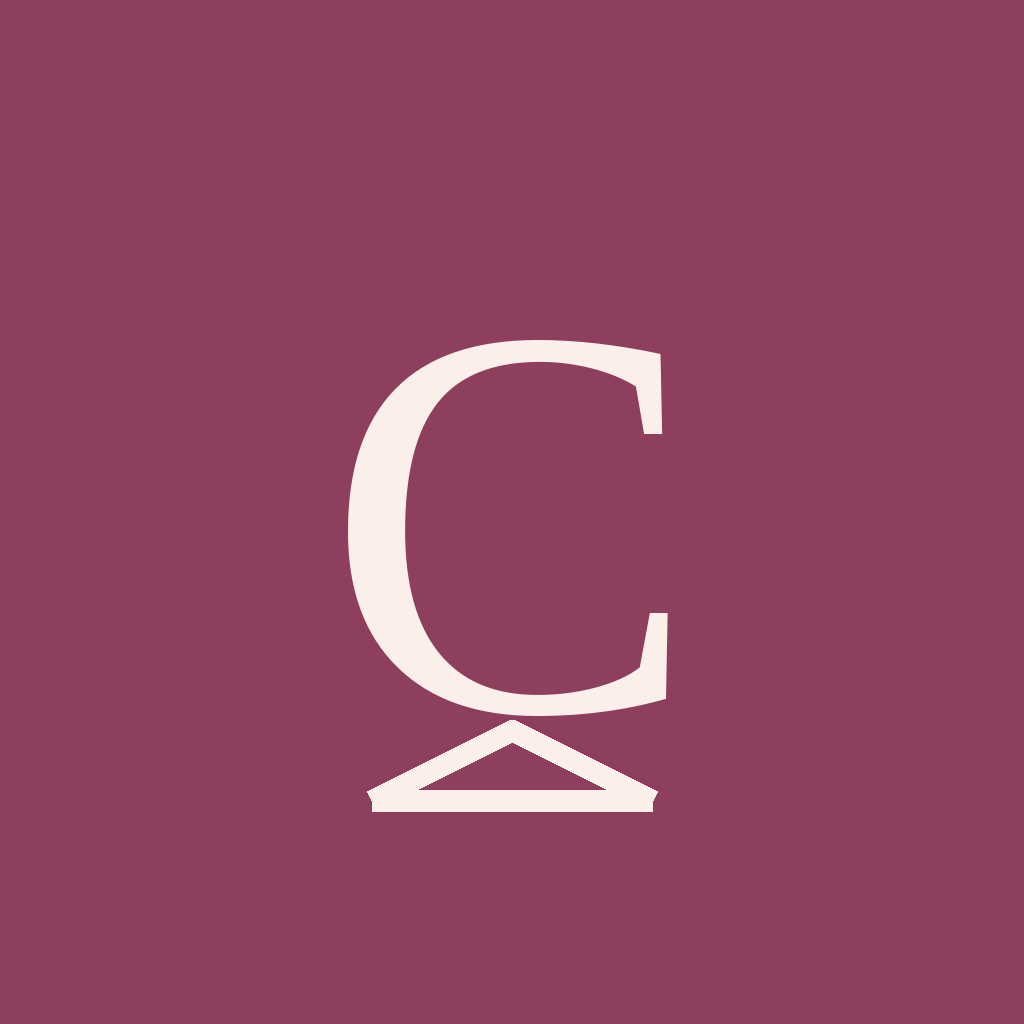
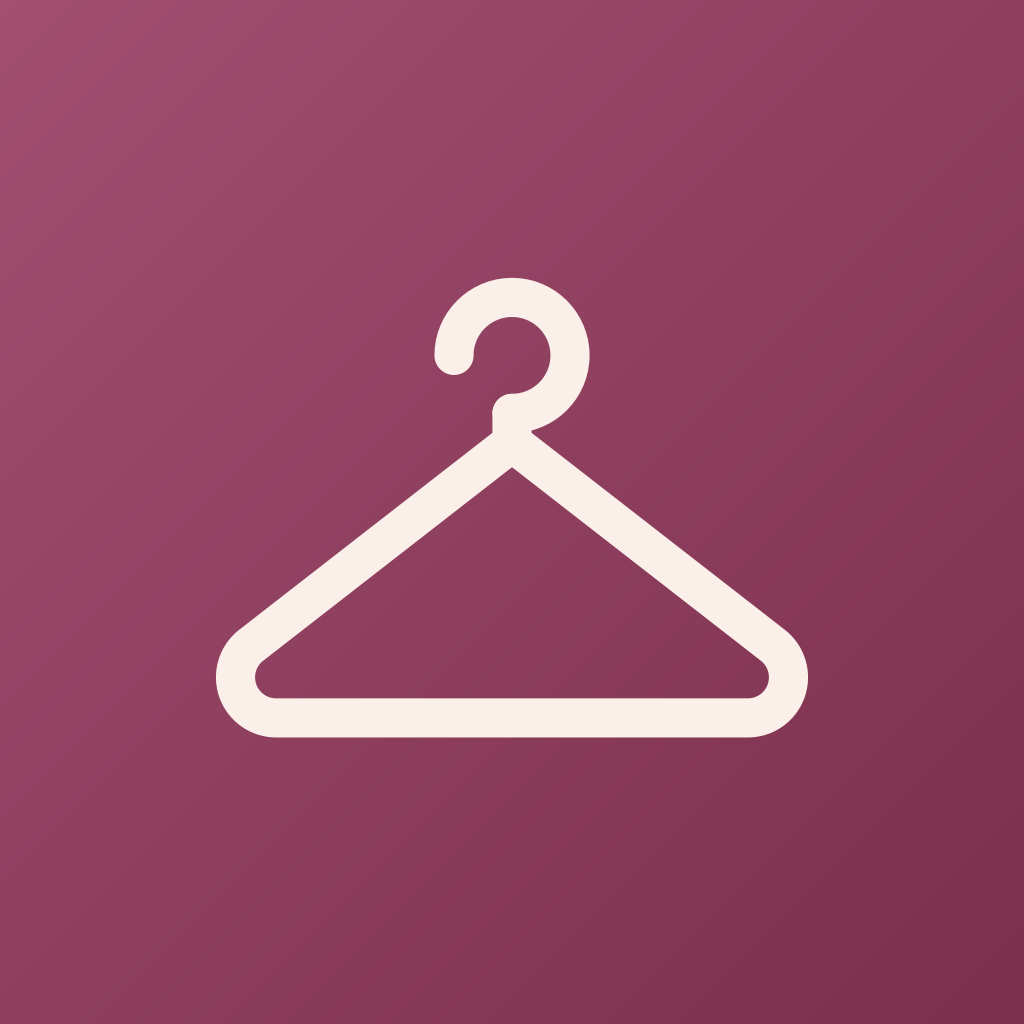
Icono nuevo y tarjeta de hoy

Changed region(s): [[0.1875, 0.25, 0.8125, 0.8125]]

diff --git a/Cora_web_CSharp/wwwroot/css/cora.css b/Cora_web_CSharp/wwwroot/css/cora.css
@@ -6,7 +6,7 @@
   --letra: -apple-system, BlinkMacSystemFont, "SF Pro Text", "Segoe UI", Roboto, sans-serif;
   --logo: Georgia, "Times New Roman", serif;
   /* Para el modo oscuro: texto encima del color de Cora, huecos de carga y fondo del visor de la cámara */
-  --sobre-acento: #fff; --hueco-a: #EFE3DF; --hueco-b: #F9F2EF; --visor: #2A1F24; --interruptor-off: #CFBDB7;
+  --sobre-acento: #fff; --hueco-a: #EFE3DF; --hueco-b: #F9F2EF; --visor: #2A1F24; --interruptor-off: #CFBDB7; --hoy-fin: #FFF9F6; --foto-hoy: #FBF6F3;
 }
 * { box-sizing: border-box; }
 html, body { margin: 0; height: 100%; background: #efe3df; color: var(--texto); font: calc(15px * var(--esc, 1))/1.4 var(--letra); -webkit-text-size-adjust: 100%; }
@@ -155,7 +155,10 @@ small { font-size: calc(13px * var(--esc, 1)); }
 
 /* Inicio */
 .saludo { font-size: calc(26px * var(--esc, 1)); }
-.hoy { background: var(--acento-suave); border-radius: 22px; padding: 16px; display: flex; flex-direction: column; gap: 12px; }
+.hoy { background: linear-gradient(180deg, var(--superficie) 0%, var(--hoy-fin) 100%); border: 1px solid var(--linea); box-shadow: 0 10px 28px -18px rgba(120, 50, 75, .35); border-radius: 22px; padding: 16px; display: flex; flex-direction: column; gap: 12px; }
+.hoy h2 { color: var(--acento); }
+.hoy .pastilla { background: var(--fondo); }
+.hoy .collage .foto { background: var(--foto-hoy); box-shadow: none; }
 .etiquetas { display: flex; flex-wrap: wrap; gap: 8px; }
 .pastilla { display: inline-flex; align-items: center; gap: 6px; background: var(--superficie); border-radius: 999px; padding: 5px 10px; font-size: calc(13px * var(--esc, 1)); font-weight: 500; }
 .pastilla .ico { width: 16px; height: 16px; color: var(--acento); }
@@ -414,7 +417,7 @@ details.pruebas h4 { margin-top: 8px; }
   --fondo: #1B1517; --superficie: #272023; --texto: #F3EBEE; --secundario: #BFAEB5; --linea: #3E3236;
   --acento: #D795AB; --acento-suave: #3A2730; --sobre-acento: #2A0F1C;
   --ok: #79D19F; --ok-suave: #1E3528; --aviso: #3A2D22; --error: #F28B8B; --error-suave: #3E2226;
-  --hueco-a: #2C2427; --hueco-b: #3A3034; --visor: #000; --interruptor-off: #4D4045; color-scheme: dark;
+  --hueco-a: #2C2427; --hueco-b: #3A3034; --visor: #000; --interruptor-off: #4D4045; --hoy-fin: #2A2226; --foto-hoy: #E9E3E5; color-scheme: dark;
 }
 .contraste.oscuro {
   --fondo: #000; --superficie: #151012; --texto: #fff; --secundario: #E2D6DB; --linea: #8A7880; --acento: #EDB8CA; --acento-suave: #36222B;
@@ -424,7 +427,7 @@ details.pruebas h4 { margin-top: 8px; }
     --fondo: #1B1517; --superficie: #272023; --texto: #F3EBEE; --secundario: #BFAEB5; --linea: #3E3236;
     --acento: #D795AB; --acento-suave: #3A2730; --sobre-acento: #2A0F1C;
     --ok: #79D19F; --ok-suave: #1E3528; --aviso: #3A2D22; --error: #F28B8B; --error-suave: #3E2226;
-    --hueco-a: #2C2427; --hueco-b: #3A3034; --visor: #000; --interruptor-off: #4D4045; color-scheme: dark;
+    --hueco-a: #2C2427; --hueco-b: #3A3034; --visor: #000; --interruptor-off: #4D4045; --hoy-fin: #2A2226; --foto-hoy: #E9E3E5; color-scheme: dark;
   }
   .contraste.tema-auto {
     --fondo: #000; --superficie: #151012; --texto: #fff; --secundario: #E2D6DB; --linea: #8A7880; --acento: #EDB8CA; --acento-suave: #36222B;
@@ -487,3 +490,6 @@ html.pre-oscuro .arranque { color: #D795AB; }
 @keyframes pestana-salto { 40% { transform: translateY(-3px); } }
 .sociales button.on .ico { animation: latir .35s ease; }
 @keyframes latir { 40% { transform: scale(1.25); } }
+
+/* El fondo blanco de las fotos de las prendas se funde con el color de su tarjeta (sin rectángulo blanco) */
+.foto img { mix-blend-mode: multiply; }

diff --git a/Cora_web_CSharp/wwwroot/index.html b/Cora_web_CSharp/wwwroot/index.html
@@ -23,7 +23,7 @@
     <title>Cora</title>
     <base href="/" />
     <link rel="icon" type="image/png" href="icono.png" />
-    <link rel="apple-touch-icon" href="icono.png" />
+    <link rel="apple-touch-icon" sizes="180x180" href="icono-180.png" />
     <link rel="stylesheet" href="css/cora.css" />
 </head>
 <body>
